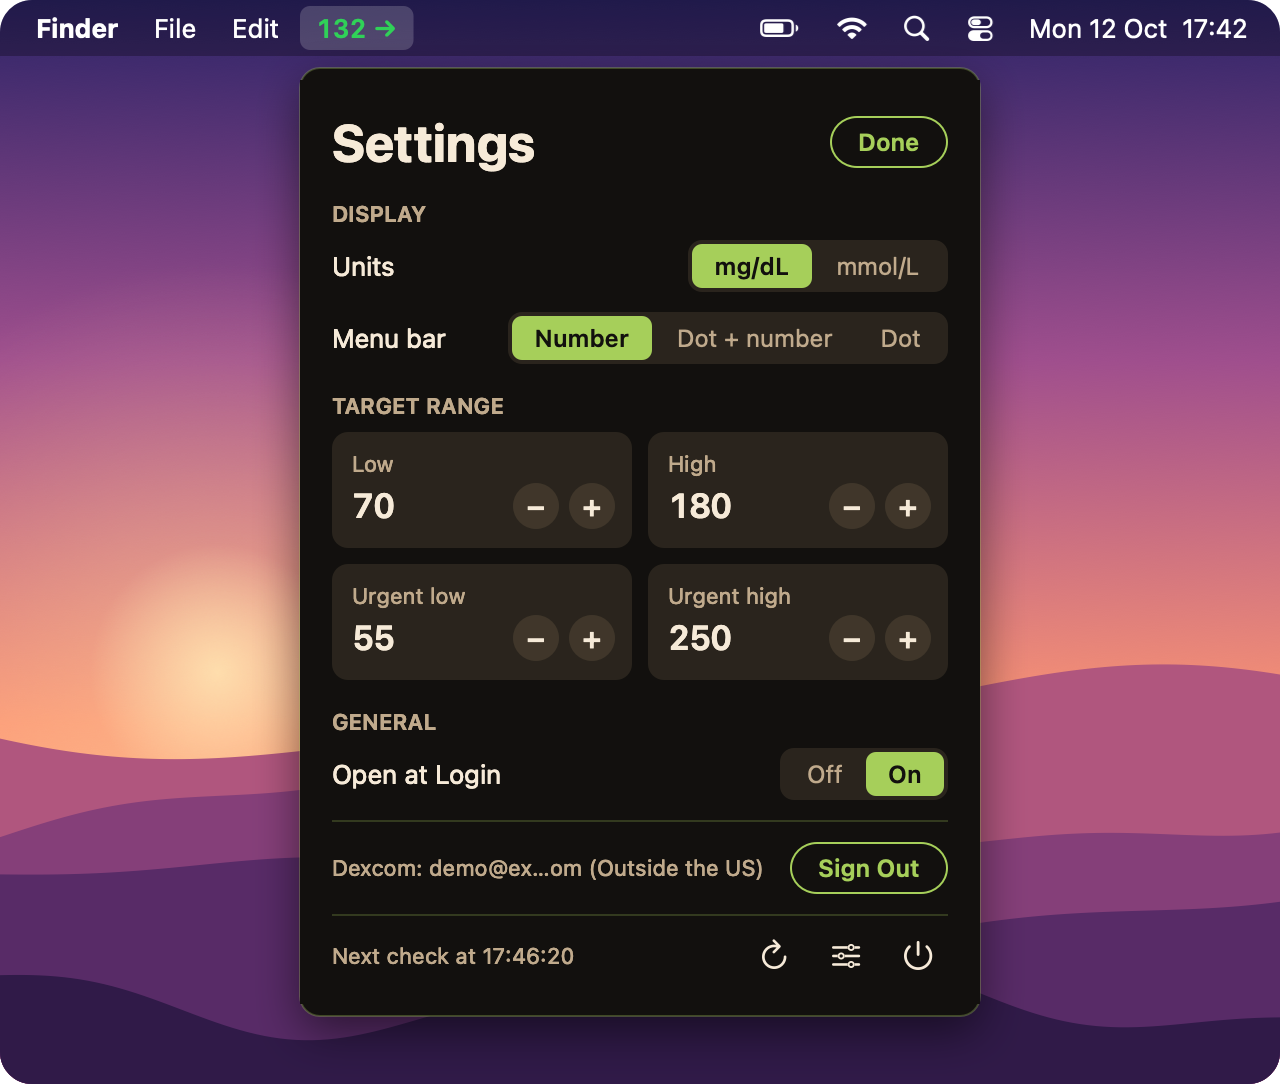
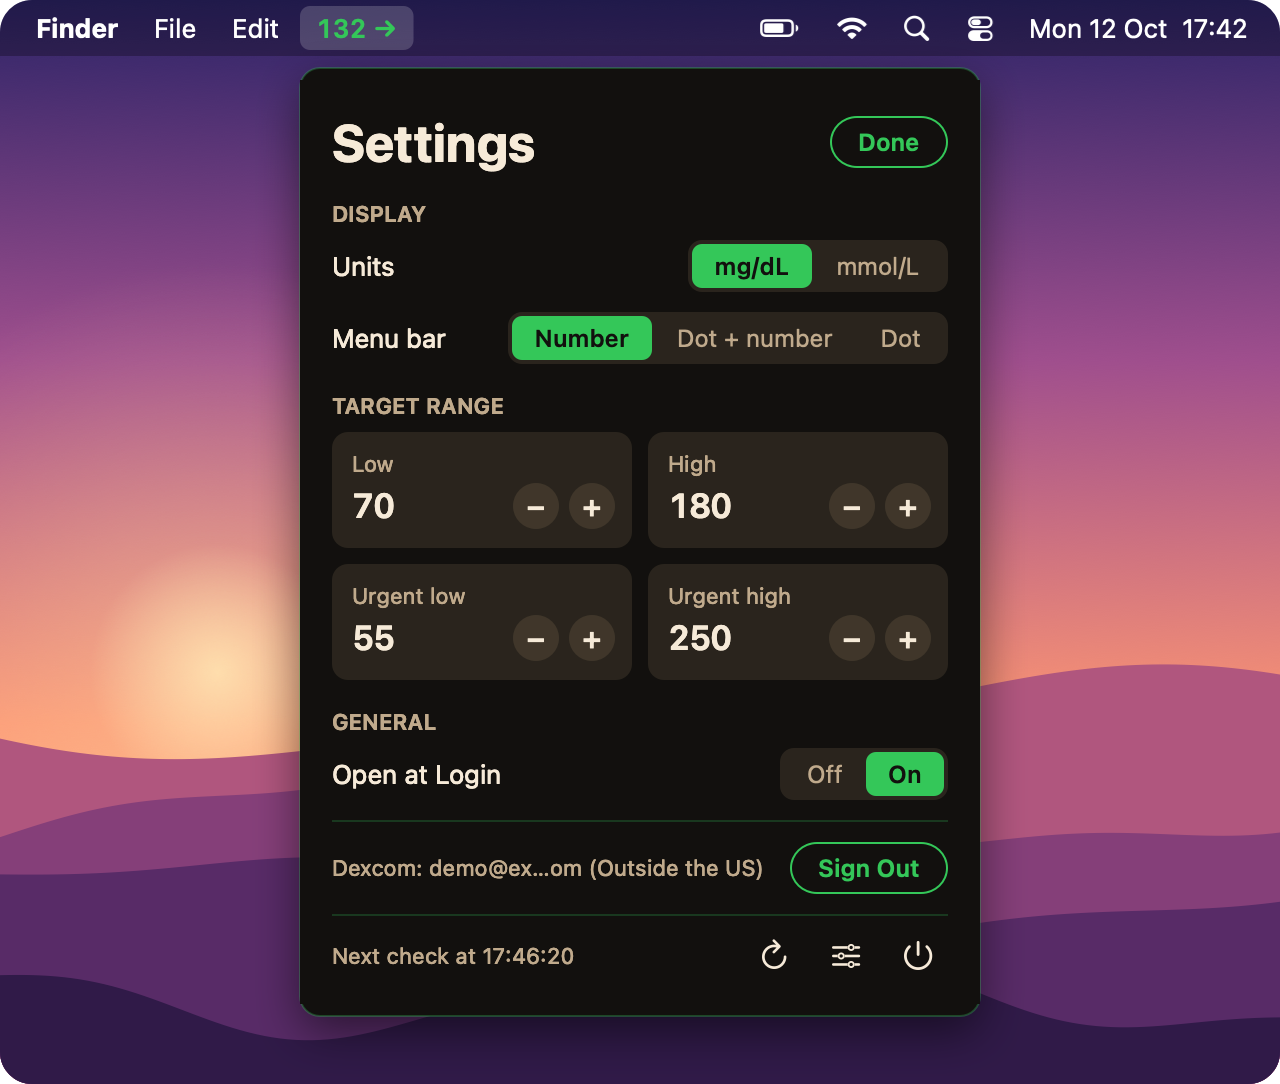
Use the same colours in the menu bar and the panel

diff --git a/sugarcane.swift b/sugarcane.swift
@@ -132,17 +132,17 @@ func directionFromDelta(_ deltaPer5Min: Double) -> String {
     return "DoubleDown"
 }
 
-// MARK: - Theme (the panel's dark, cane-green look; the menu bar keeps the system colors)
+// MARK: - Theme (one set of colors for the menu bar item and the panel)
 
 enum Theme {
     static let panel = NSColor(srgbRed: 0.071, green: 0.063, blue: 0.055, alpha: 1)       // near-black, slightly warm
     static let ink = NSColor(srgbRed: 0.071, green: 0.063, blue: 0.055, alpha: 1)         // text on green
     static let text = NSColor(srgbRed: 0.965, green: 0.918, blue: 0.847, alpha: 1)        // raw sugar
     static let secondary = NSColor(srgbRed: 0.753, green: 0.667, blue: 0.549, alpha: 1)
-    static let inRange = NSColor(srgbRed: 0.651, green: 0.812, blue: 0.353, alpha: 1)     // cane green
+    static let inRange = NSColor(srgbRed: 0.204, green: 0.780, blue: 0.349, alpha: 1)     // green, readable on a light menu bar too
     static let accent = inRange                                                           // switches, buttons, the graph line
     static let high = NSColor(srgbRed: 0.941, green: 0.706, blue: 0.271, alpha: 1)        // amber: high readings, warnings
-    static let low = NSColor(srgbRed: 1.0, green: 0.541, blue: 0.451, alpha: 1)
+    static let low = NSColor(srgbRed: 1.0, green: 0.271, blue: 0.227, alpha: 1)
     static let tile = NSColor(srgbRed: 1.0, green: 0.863, blue: 0.627, alpha: 0.10)
     static let dark = NSAppearance(named: .darkAqua)
 
@@ -197,13 +197,14 @@ func fmtClock(_ date: Date, seconds: Bool = false) -> String {
     return f.string(from: date)
 }
 
-/// Label for the dropdown and the color for the menu bar.
+/// Label for the panel and the color for the menu bar (the same colors the panel uses).
 func rangeState(_ v: Double, _ cfg: Config) -> (String, NSColor) {
-    if v < cfg.urgentLow { return ("URGENT LOW", .systemRed) }
-    if v < cfg.low { return ("Low", .systemRed) }
-    if v > cfg.urgentHigh { return ("URGENT HIGH", .systemYellow) }
-    if v > cfg.high { return ("High", .systemYellow) }
-    return ("In range", .systemGreen)
+    let color = Theme.color(v, cfg)
+    if v < cfg.urgentLow { return ("URGENT LOW", color) }
+    if v < cfg.low { return ("Low", color) }
+    if v > cfg.urgentHigh { return ("URGENT HIGH", color) }
+    if v > cfg.high { return ("High", color) }
+    return ("In range", color)
 }
 
 func dotImage(_ color: NSColor, hollow: Bool = false) -> NSImage {
